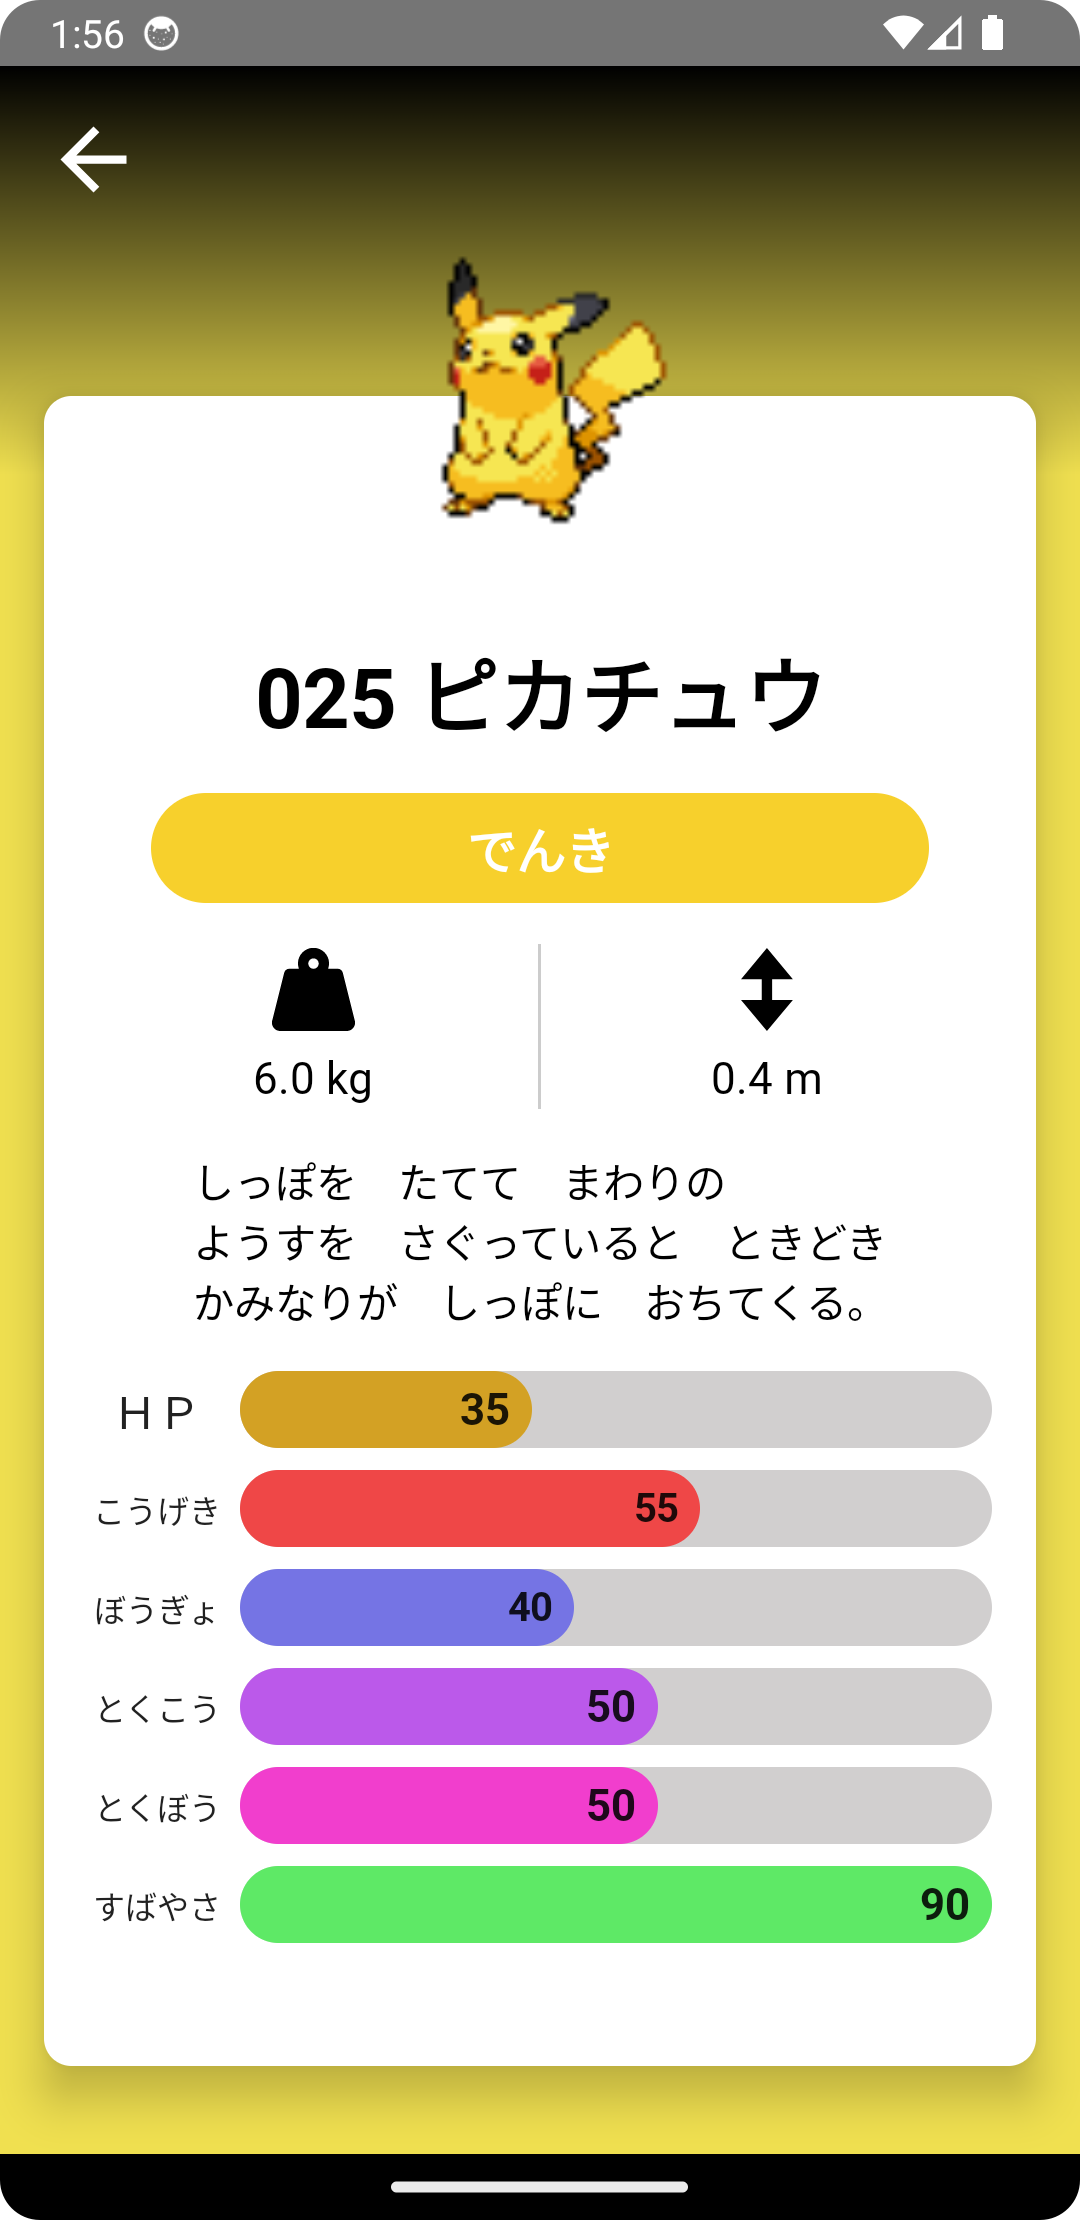
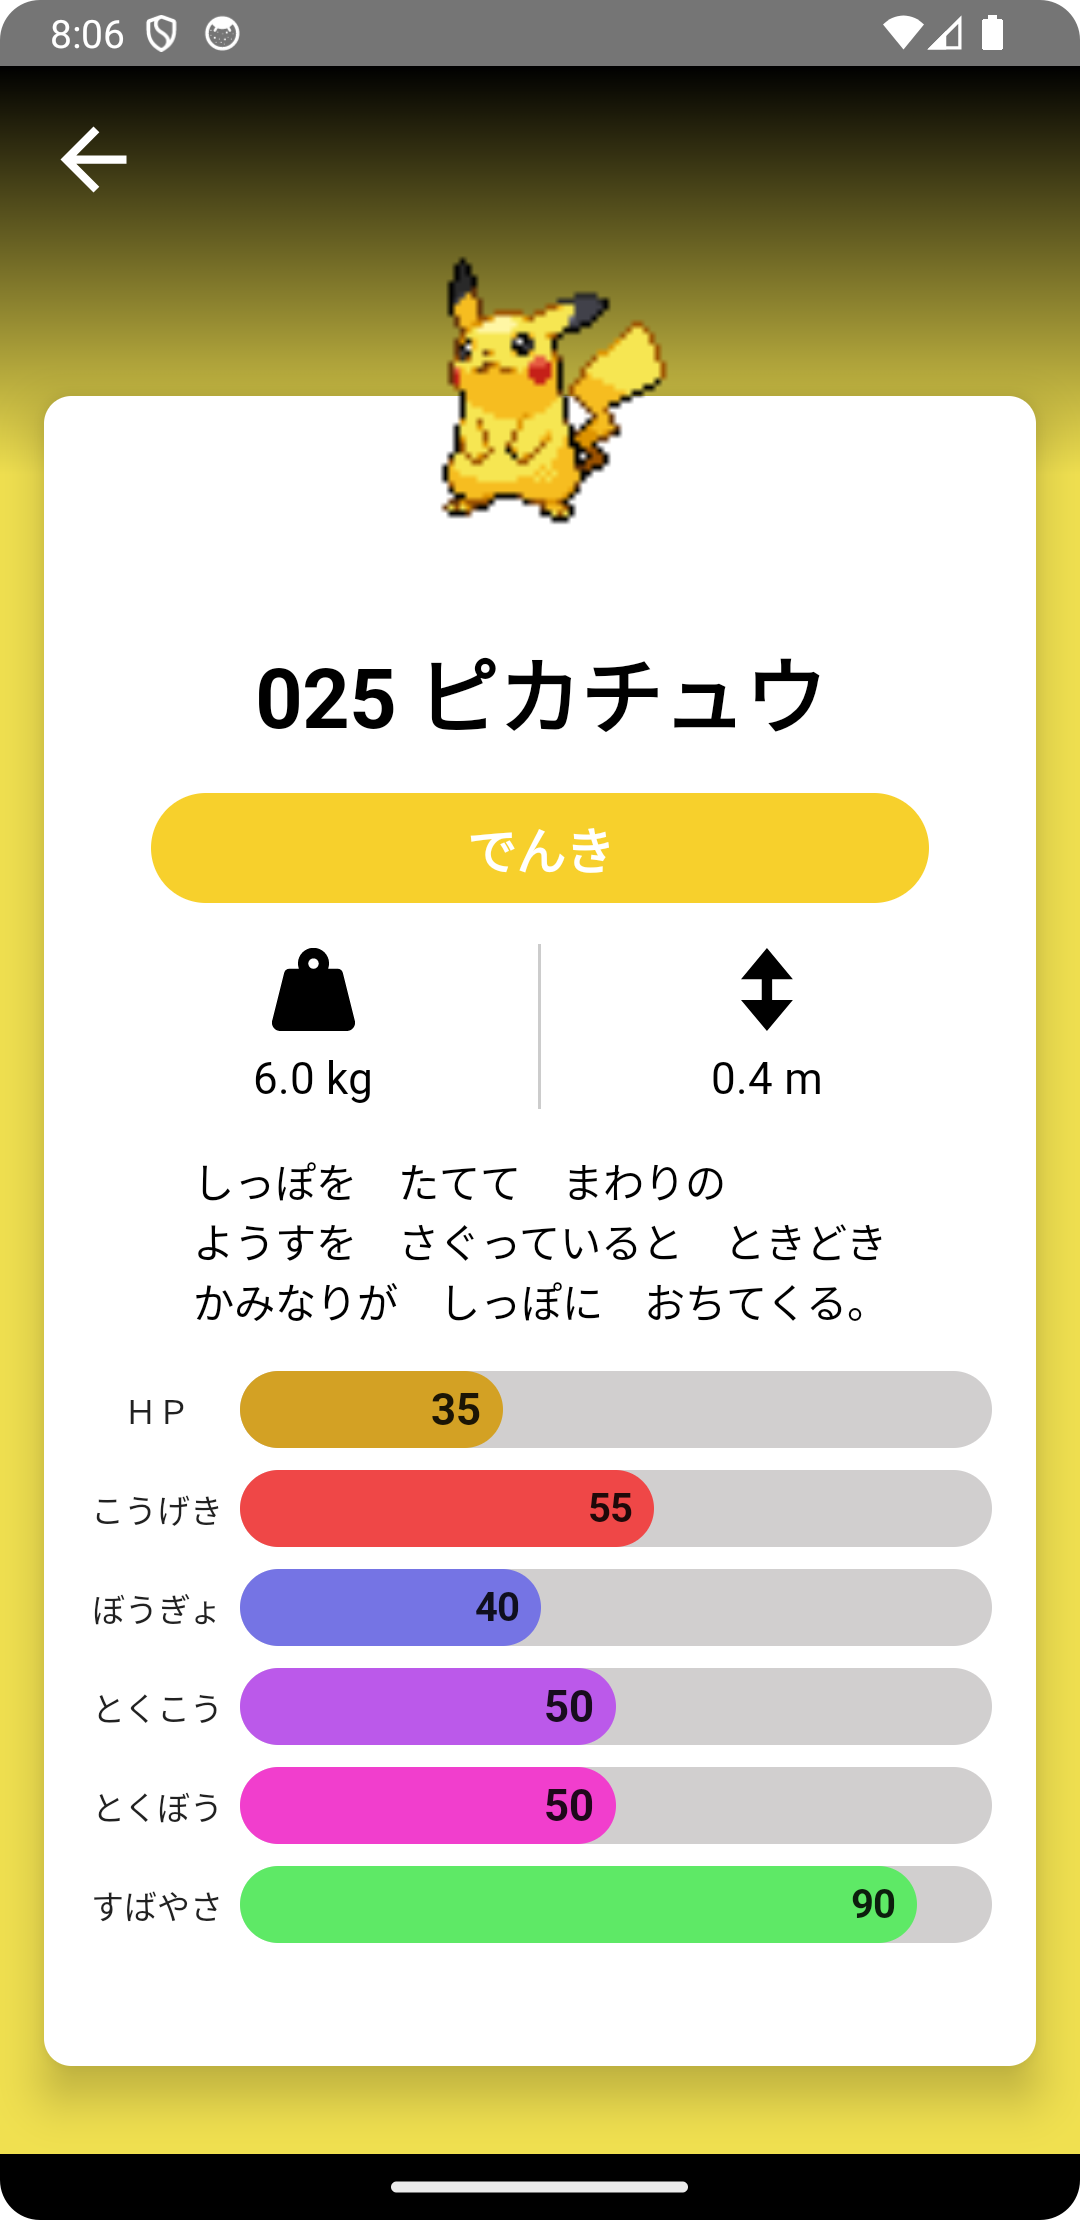
[Update] Modify Search and DetailScreen
- Modify search logic
- Modify PokemonDetailScreen
- Update library
- Update screenshots

diff --git a/app/src/main/java/levilin/pokemon/dictionary/viewmodel/list/PokemonListViewModel.kt b/app/src/main/java/levilin/pokemon/dictionary/viewmodel/list/PokemonListViewModel.kt
@@ -38,6 +38,8 @@ class PokemonListViewModel @Inject constructor(
 
     // Search Properties
     private val cachedPokemonList = MutableStateFlow<List<PokemonListEntry>>(listOf())
+    private val _searchList = MutableStateFlow<List<PokemonListEntry>>(listOf())
+    val searchList: StateFlow<List<PokemonListEntry>> = _searchList
     private val _inputText = MutableStateFlow("")
     val inputText: StateFlow<String> = _inputText
     val isSearching = MutableStateFlow(false)
@@ -126,6 +128,7 @@ class PokemonListViewModel @Inject constructor(
                 else -> {}
             }
             cachedPokemonList.value = _pokemonList.value
+            _searchList.value = _pokemonList.value
         }
     }
 
@@ -189,7 +192,8 @@ class PokemonListViewModel @Inject constructor(
                         if (pokemonListEntry != null) {
                             insertItem(pokemonListEntry = pokemonListEntry)
                             localResults += pokemonListEntry
-                            _pokemonList.value += pokemonListEntry
+                            _searchList.value = localResults.sortedBy { it.id }
+                            _pokemonList.value = _searchList.value
                             cachedPokemonList.value = _pokemonList.value
                         }
                     }
@@ -201,7 +205,9 @@ class PokemonListViewModel @Inject constructor(
                     else -> {}
                 }
             } else {
-                _pokemonList.value = localResults.sortedBy { it.id }
+                _searchList.value = localResults.sortedBy { it.id }
+                _pokemonList.value = _searchList.value
+                cachedPokemonList.value = _pokemonList.value
             }
         }
     }
@@ -230,6 +236,10 @@ class PokemonListViewModel @Inject constructor(
             updateItem(pokemonListEntry = updatedEntry)
 
             _pokemonList.value = _pokemonList.value.map { pokemonListEntry ->
+                if (pokemonListEntry.id == entry.id) updatedEntry else pokemonListEntry
+            }
+
+            cachedPokemonList.value = cachedPokemonList.value.map { pokemonListEntry ->
                 if (pokemonListEntry.id == entry.id) updatedEntry else pokemonListEntry
             }
 

diff --git a/app/src/main/java/levilin/pokemon/dictionary/ui/screen/detail/PokemonDetailScreen.kt b/app/src/main/java/levilin/pokemon/dictionary/ui/screen/detail/PokemonDetailScreen.kt
@@ -367,9 +367,12 @@ fun PokemonStatus(
     var animationTriggered by remember {
         mutableStateOf(false)
     }
+
+    val animationMaxValue = if (statusMaxValue < 100) 100f else statusMaxValue.toFloat()
+
     val currentPercent = animateFloatAsState(
         targetValue = if (animationTriggered) {
-            statusValue / statusMaxValue.toFloat()
+            statusValue / animationMaxValue
         } else 0f,
         animationSpec = tween(
             animationDuration,
@@ -388,6 +391,7 @@ fun PokemonStatus(
             modifier = Modifier.width(50.dp),
             text = stringResource(id = statusNameStringID),
             textAlign = TextAlign.Center,
+            fontSize = 12.sp,
             fontWeight = FontWeight.Medium,
             maxLines = 1,
             overflow = TextOverflow.Visible
@@ -419,7 +423,7 @@ fun PokemonStatus(
                 verticalAlignment = Alignment.CenterVertically
             ) {
                 AdjustableText(
-                    text = (currentPercent.value * statusMaxValue).toInt().toString(),
+                    text = (currentPercent.value * animationMaxValue).toInt().toString(),
                     fontWeight = FontWeight.Bold,
                     maxLines = 1,
                     overflow = TextOverflow.Visible
@@ -440,14 +444,14 @@ fun PokemonBaseStatus(
     Column(
         modifier = Modifier.fillMaxWidth()
     ) {
-        for (i in pokemonDetail.pokemonInfo.stats.indices) {
-            val status = pokemonDetail.pokemonInfo.stats[i]
+        for (index in pokemonDetail.pokemonInfo.stats.indices) {
+            val status = pokemonDetail.pokemonInfo.stats[index]
             PokemonStatus(
                 statusNameStringID = parseStatusToLocalizedStringId(status),
                 statusValue = status.baseStat,
                 statusMaxValue = maxBaseStat,
                 statusColor = parseStatusToColor(status),
-                animationDelay = i * animationDelay
+                animationDelay = index * animationDelay
             )
             Spacer(modifier = Modifier.height(8.dp))
         }

diff --git a/app/src/main/java/levilin/pokemon/dictionary/ui/screen/list/PokemonListScreen.kt b/app/src/main/java/levilin/pokemon/dictionary/ui/screen/list/PokemonListScreen.kt
@@ -75,16 +75,19 @@ fun PokemonList(
     viewModel: PokemonListViewModel = hiltViewModel()
 ) {
     val pokemonList by viewModel.pokemonList.collectAsState()
+    val searchList by viewModel.searchList.collectAsState()
     val endReached by viewModel.endReached.collectAsState()
     val loadError by viewModel.loadError.collectAsState()
     val isLoading by viewModel.isLoading.collectAsState()
     val isSearching by viewModel.isSearching.collectAsState()
 
+    val listToShow = if (isSearching) searchList else pokemonList
+
     LazyColumn(contentPadding = PaddingValues(16.dp)) {
-        val itemCount = if (pokemonList.size % 2 == 0) {
-            pokemonList.size / 2
+        val itemCount = if (listToShow.size % 2 == 0) {
+            listToShow.size / 2
         } else {
-            pokemonList.size / 2 + 1
+            listToShow.size / 2 + 1
         }
         items(itemCount) { index ->
             if (index >= itemCount - 1 && !endReached && !isLoading && !isSearching) {
@@ -92,7 +95,7 @@ fun PokemonList(
                     viewModel.loadPokemonList()
                 }
             }
-            PokemonRow(rowIndex = index, entries = pokemonList, navController = navController)
+            PokemonRow(rowIndex = index, entries = listToShow, navController = navController)
         }
     }
 
